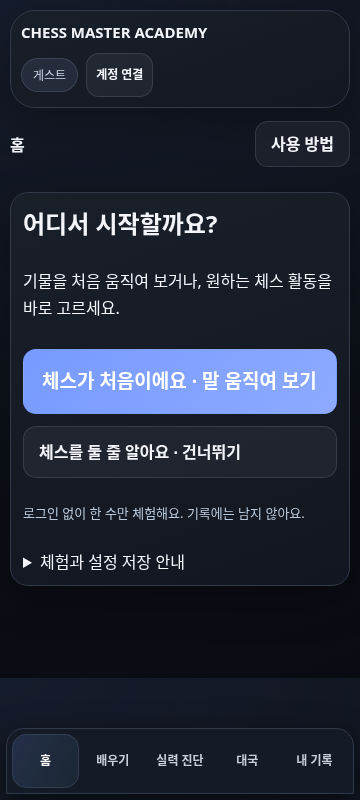
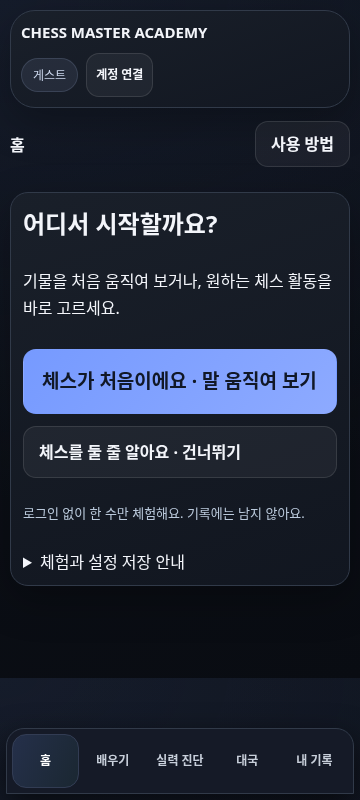
Record review regressions and settled activity-choice captures

Changed region(s): [[0.1222, 0.4688, 0.5194, 0.5], [0.55, 0.4688, 0.7639, 0.5], [0.7944, 0.4688, 0.8861, 0.5]]

diff --git a/tests/test_first_visit_browser.py b/tests/test_first_visit_browser.py
@@ -157,6 +157,7 @@ def test_skip_prioritizes_activities_and_preserves_revisit_preference(guest,site
     for id in ['entry-diagnosis','entry-training','entry-play','entry-learn']:
         assert p.locator('#'+id).bounding_box()['y']<p.locator('#firstTry').bounding_box()['y']
     p.keyboard.press('Tab');expect(p.locator('#entry-diagnosis')).to_be_focused()
+    p.wait_for_timeout(250)  # Allow the existing button style transition to settle for capture.
     p.screenshot(path='/tmp/cma-first-visit-captures/skip-choices.png',full_page=True)
     p.reload();expect(p.locator('#firstSkip')).to_be_hidden()
     expect(p.locator('#entryChoices')).to_be_visible()
@@ -221,6 +222,7 @@ def test_entry_primary_contrast_initial_skip_and_returning(guest,site):
         print(selector,'gradient contrast',ratios,'focus',colors['outline'])
     check('#firstTry')
     p.locator('#firstSkip').click();check('#entry-diagnosis')
+    p.wait_for_timeout(250)  # Allow the existing button style transition to settle for capture.
     p.screenshot(path='/tmp/cma-first-visit-captures/skip-choices.png',full_page=True)
     p.reload();check('#entry-diagnosis')
     p.evaluate("t=>localStorage.setItem('chess_token',t)",site[1]);p.reload()
